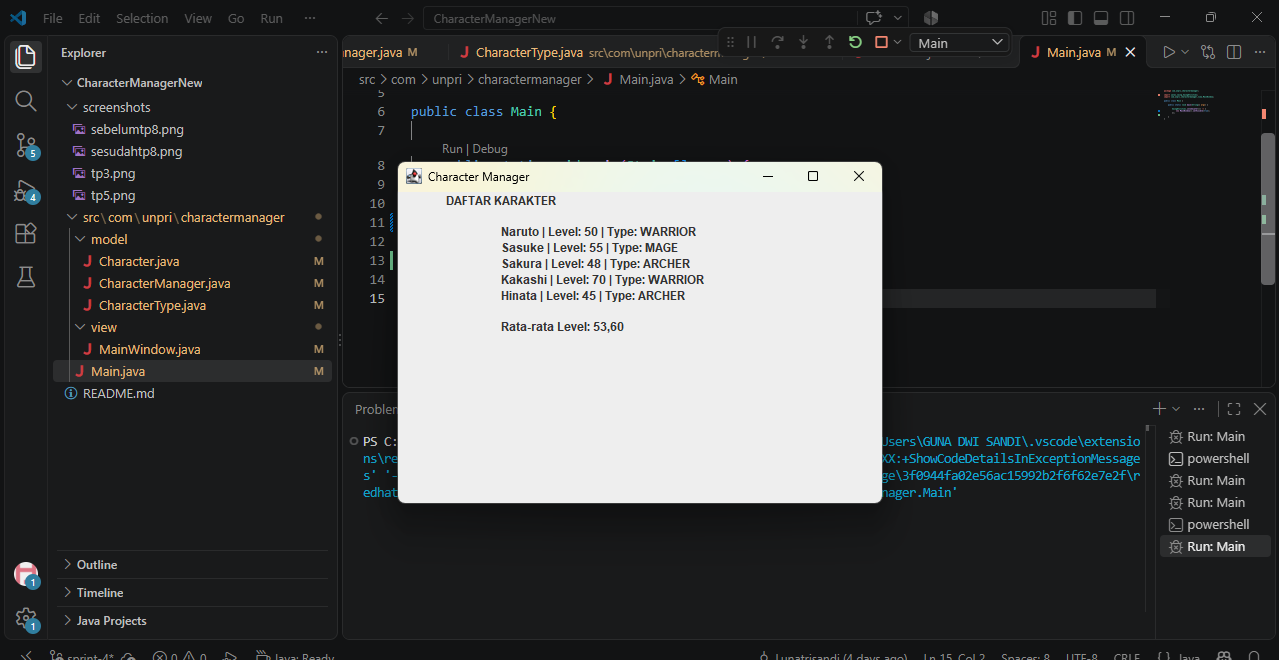
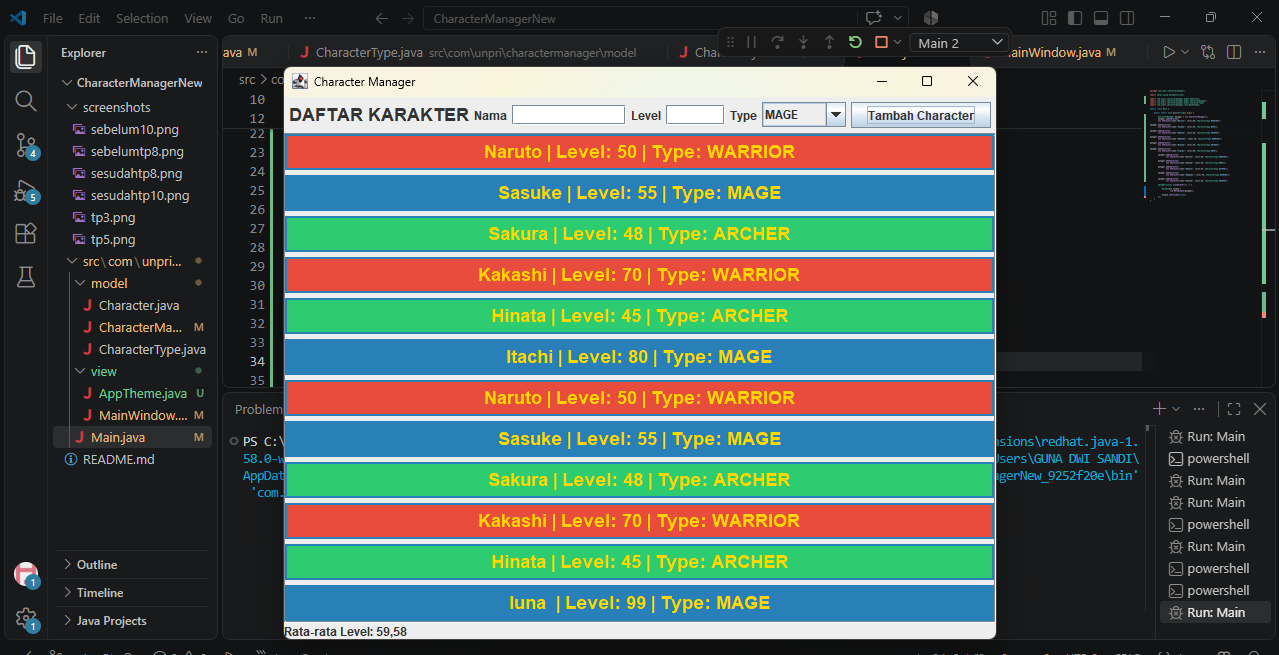
sprint-5

diff --git a/src/com/unpri/charactermanager/view/MainWindow.java b/src/com/unpri/charactermanager/view/MainWindow.java
@@ -1,54 +1,44 @@
 package com.unpri.charactermanager.view;
 
-import com.unpri.charactermanager.model.Character;
-import com.unpri.charactermanager.model.CharacterManager;
+import java.awt.BorderLayout;
 
-import javax.swing.*;
-import java.awt.*;
+import javax.swing.JFrame;
+import javax.swing.JLabel;
+import javax.swing.SwingConstants;
+
+import com.unpri.charactermanager.model.CharacterManager;
 
 public class MainWindow extends JFrame {
 
     private CharacterManager manager;
 
-    public MainWindow() {
+    public MainWindow(CharacterManager manager) {
 
-        manager = new CharacterManager();
+        this.manager = manager;
 
         setTitle("Character Manager");
-        setSize(500, 350);
+        setSize(600, 400);
         setLocationRelativeTo(null);
         setDefaultCloseOperation(JFrame.EXIT_ON_CLOSE);
 
-        JPanel panel = new JPanel();
-        panel.setLayout(new BoxLayout(panel, BoxLayout.Y_AXIS));
+        initializeComponents();
+    }
 
-        JLabel title = new JLabel("DAFTAR KARAKTER");
-        title.setAlignmentX(Component.CENTER_ALIGNMENT);
+    private void initializeComponents() {
 
-        panel.add(title);
-        panel.add(Box.createVerticalStrut(15));
+        setLayout(new BorderLayout());
 
-        // Tampil dinamis dari loop
-        for (Character c : manager.getCharacters()) {
+        JLabel titleLabel = new JLabel(
+                "DAFTAR KARAKTER",
+                SwingConstants.CENTER);
 
-            JLabel lbl = new JLabel(
-                    c.getName()
-                    + " | Level: "
-                    + c.getLevel()
-                    + " | Type: "
-                    + c.getType());
+        add(titleLabel, BorderLayout.NORTH);
 
-            panel.add(lbl);
-        }
+        JLabel contentLabel = new JLabel(
+                "Total Character : "
+                + manager.getTotalCharacters(),
+                SwingConstants.CENTER);
 
-        panel.add(Box.createVerticalStrut(15));
-
-        JLabel avgLabel = new JLabel(
-                "Rata-rata Level: "
-                + String.format("%.2f", manager.getAverageLevel()));
-
-        panel.add(avgLabel);
-
-        add(panel);
+        add(contentLabel, BorderLayout.CENTER);
     }
 }

diff --git a/src/com/unpri/charactermanager/Main.java b/src/com/unpri/charactermanager/Main.java
@@ -1,15 +1,48 @@
 package com.unpri.charactermanager;
 
 import javax.swing.SwingUtilities;
+
+import com.unpri.charactermanager.model.Character;
+import com.unpri.charactermanager.model.CharacterManager;
+import com.unpri.charactermanager.model.CharacterType;
 import com.unpri.charactermanager.view.MainWindow;
 
 public class Main {
 
     public static void main(String[] args) {
 
-        SwingUtilities.invokeLater(() -> {
-            new MainWindow().setVisible(true);
-        });
+        CharacterManager manager = new CharacterManager();
 
+        manager.addCharacter(
+                new Character("Naruto", 50, CharacterType.WARRIOR));
+
+        manager.addCharacter(
+                new Character("Sasuke", 55, CharacterType.MAGE));
+
+        manager.addCharacter(
+                new Character("Sakura", 48, CharacterType.ARCHER));
+
+        manager.addCharacter(
+                new Character("Kakashi", 70, CharacterType.WARRIOR));
+
+        manager.addCharacter(
+                new Character("Hinata", 45, CharacterType.ARCHER));
+
+        manager.addCharacter(
+                new Character("Itachi", 80, CharacterType.MAGE));
+
+        manager.addCharacter(
+                new Character("Goku", 99, CharacterType.WARRIOR));
+
+        manager.addCharacter(
+                new Character("Vegeta", 95, CharacterType.WARRIOR));
+
+        SwingUtilities.invokeLater(() -> {
+
+            MainWindow window =
+                    new MainWindow(manager);
+
+            window.setVisible(true);
+        });
     }
 }

diff --git a/src/com/unpri/charactermanager/model/CharacterManager.java b/src/com/unpri/charactermanager/model/CharacterManager.java
@@ -1,33 +1,39 @@
 package com.unpri.charactermanager.model;
 
 import java.util.ArrayList;
+import java.util.List;
 
 public class CharacterManager {
 
     private ArrayList<Character> characters;
 
     public CharacterManager() {
-
         characters = new ArrayList<>();
-
-        characters.add(new Character("Naruto", 50, CharacterType.WARRIOR));
-        characters.add(new Character("Sasuke", 55, CharacterType.MAGE));
-        characters.add(new Character("Sakura", 48, CharacterType.ARCHER));
-
-        // tambahan 2 karakter baru
-        characters.add(new Character("Kakashi", 70, CharacterType.WARRIOR));
-        characters.add(new Character("Hinata", 45, CharacterType.ARCHER));
     }
 
-    public ArrayList<Character> getCharacters() {
-        return characters;
+    public boolean addCharacter(Character character) {
+
+        characters.add(character);
+        return true;
+    }
+
+    public int getTotalCharacters() {
+        return characters.size();
+    }
+
+    public List<Character> getAllCharacters() {
+        return new ArrayList<>(characters);
     }
 
     public double getAverageLevel() {
 
+        if (characters.isEmpty()) {
+            return 0;
+        }
+
         int total = 0;
 
-        for(Character c : characters){
+        for (Character c : characters) {
             total += c.getLevel();
         }
 

diff --git a/src/com/unpri/charactermanager/view/AppTheme.java b/src/com/unpri/charactermanager/view/AppTheme.java
@@ -1,0 +1,57 @@
+package com.unpri.charactermanager.view;
+
+import java.awt.Color;
+import java.awt.Font;
+
+import javax.swing.BorderFactory;
+import javax.swing.border.Border;
+
+public class AppTheme {
+
+    // 3 warna minimal
+    public static final Color PRIMARY =
+            new Color(41, 128, 185);
+
+    public static final Color SUCCESS =
+            new Color(46, 204, 113);
+
+    public static final Color DANGER =
+            new Color(231, 76, 60);
+
+    public static final Color BACKGROUND =
+            new Color(245, 245, 245);
+
+    // 3 font minimal
+    public static final Font TITLE_FONT =
+            new Font("Arial", Font.BOLD, 18);
+
+    public static final Font TEXT_FONT =
+            new Font("Arial", Font.PLAIN, 14);
+
+    public static final Font SMALL_FONT =
+            new Font("Arial", Font.PLAIN, 12);
+
+    // border
+    public static final Border CARD_BORDER =
+            BorderFactory.createLineBorder(
+                    PRIMARY,
+                    2);
+
+    public static Color colorForType(String type) {
+
+        switch (type) {
+
+        case "WARRIOR":
+            return DANGER;
+
+        case "MAGE":
+            return PRIMARY;
+
+        case "ARCHER":
+            return SUCCESS;
+
+        default:
+            return Color.GRAY;
+        }
+    }
+}

diff --git a/README.md b/README.md
@@ -358,10 +358,10 @@ Menutup jendela aplikasi
 Setiap event akan memicu kode tertentu melalui event listener yang telah didaftarkan pada komponen GUI.
 
 Hasil Output Sebelum tp10
-![alt text](screenshots/sebelum10.png)
+![alt text]![alt text](screenshots/sebelumtp10.png)
 
 Hasil Output Sesudah tp10
-![alt text](screenshots/sesudahtp10.png)
+![alt text]![alt text](screenshots/sesudahtp10.png)
 
 Struktur Project
 CharacterManagerNew
@@ -391,3 +391,124 @@ Identitas Mahasiswa
 Nama : Luna Tri Sandi
 NIM : 253303621240
 Google Docs Bagian D : [https://1drv.ms/w/c/265fce39944988d2/IQC1HpyTXEGJSZtj5abKaZnNAaQMmCg2ibE5ieK2FtdOLvI?e=dvvx9z]
+
+______________________________________________________________________________________________________________
+
+TP12 - Layout Manager & MVC
+
+Struktur Panel Bersarang
+Aplikasi menggunakan BorderLayout sebagai layout utama pada MainWindow. Area NORTH berisi panel header dan panel statistik yang disusun menggunakan panel pembungkus. Header berfungsi untuk menampilkan judul aplikasi dan form input karakter.
+
+Area CENTER berisi daftar karakter yang ditempatkan dalam JScrollPane. Dengan cara ini daftar karakter tetap dapat diakses ketika jumlah data bertambah banyak.
+
+Area EAST digunakan untuk menampilkan legenda tipe karakter menggunakan BoxLayout. Area SOUTH digunakan sebagai status bar yang menampilkan rata-rata level karakter dan versi aplikasi.
+
+Alasan Pemilihan Layout
+BorderLayout
+Saya memilih BorderLayout karena aplikasi memiliki bagian yang berbeda fungsi, yaitu header, area konten utama, legenda, dan status bar. BorderLayout mempermudah pembagian area tersebut secara jelas.
+
+GridLayout
+GridLayout digunakan pada panel statistik dan daftar kartu karakter karena seluruh komponen perlu memiliki ukuran yang seragam dan tersusun rapi.
+
+BoxLayout
+BoxLayout digunakan pada panel legenda karena item legenda ditampilkan secara vertikal dari atas ke bawah sehingga lebih mudah dibaca.
+
+Layout yang Tidak Digunakan
+FlowLayout
+FlowLayout tidak digunakan sebagai layout utama karena posisi komponen akan berubah-ubah ketika ukuran jendela berubah sehingga tampilan menjadi kurang konsisten.
+
+Null Layout
+Pendekatan menggunakan:
+
+setLayout(null);
+setBounds(...);
+tidak digunakan karena posisi komponen harus diatur secara manual dan tidak responsif terhadap perubahan ukuran jendela.
+
+Screenshot Resize
+Screenshot 1 - Ukuran Normal
+![alt text](screenshots/ukurannormaltp12.png)
+
+screenshots/tp12- Besar.png
+Screenshot 2 - Jendela Diperbesar
+![alt text](screenshots/ukuranperbesartp12.png)
+
+screenshots/tp12- Kecil.png
+Screenshot 3 - Jendela Diperkecil
+![alt text](screenshots/ukurandiperkeciltp12.png)
+
+
+
+Kondisi	Prediksi	Hasil
+Ukuran Normal	Semua panel tampil sempurna	Sesuai
+Jendela Diperbesar	Area daftar karakter menjadi lebih luas	Sesuai
+Jendela Diperkecil	Scrollbar muncul pada area karakter	Sesuai
+Legenda	Tetap berada di sisi kanan	Sesuai
+Status Bar	Tetap berada di bagian bawah	Sesuai
+Implementasi MVC
+Model
+Package model terdiri dari:
+
+Character.java
+CharacterManager.java
+CharacterType.java
+Model bertanggung jawab menyimpan dan mengelola data karakter.
+
+View
+Package view terdiri dari:
+
+MainWindow.java
+AppTheme.java
+View bertanggung jawab menampilkan data karakter kepada pengguna.
+
+Controller
+Controller diimplementasikan melalui event listener pada tombol GUI.
+
+Contoh:
+
+btnTambah.addActionListener(
+    e -> tambahCharacter());
+Ketika tombol ditekan, data akan diproses dan tampilan diperbarui.
+
+Mini Challenge
+Aplikasi menggunakan konstanta:
+
+private static final int LEVEL_THRESHOLD = 5;
+Karakter dengan level lebih besar atau sama dengan 5 ditampilkan menggunakan teks berwarna emas dan font tebal.
+
+Selain itu ditambahkan tooltip yang menampilkan informasi:
+
+HP = Level × 100
+ATK = Level × 20
+Sehingga pengguna dapat melihat statistik tambahan tanpa memenuhi tampilan utama aplikasi.
+
+
+Struktur Project
+CharacterManager
+│
+├── README.md
+│
+├── screenshots
+│   ├── tp12-normal.png
+│   ├── tp12-besar.png
+│   └── tp12-kecil.png
+│
+└── src
+    └── com
+        └── unpri
+            └── charactermanager
+                │
+                ├── Main.java
+                │
+                ├── model
+                │   ├── Character.java
+                │   ├── CharacterManager.java
+                │   └── CharacterType.java
+                │
+                └── view
+                    ├── AppTheme.java
+                    └── MainWindow.java
+
+Identitas Mahasiswa
+Nama : Luna Tri Sandi
+NIM : 253303621240
+Google Docs Bagian D : [https://1drv.ms/w/c/265fce39944988d2/IQBOBEou28cMTZN4R-ZtPPE1AXVw8zU1C6KjKFn172kdHCk?e=qhU5Lh]                  
